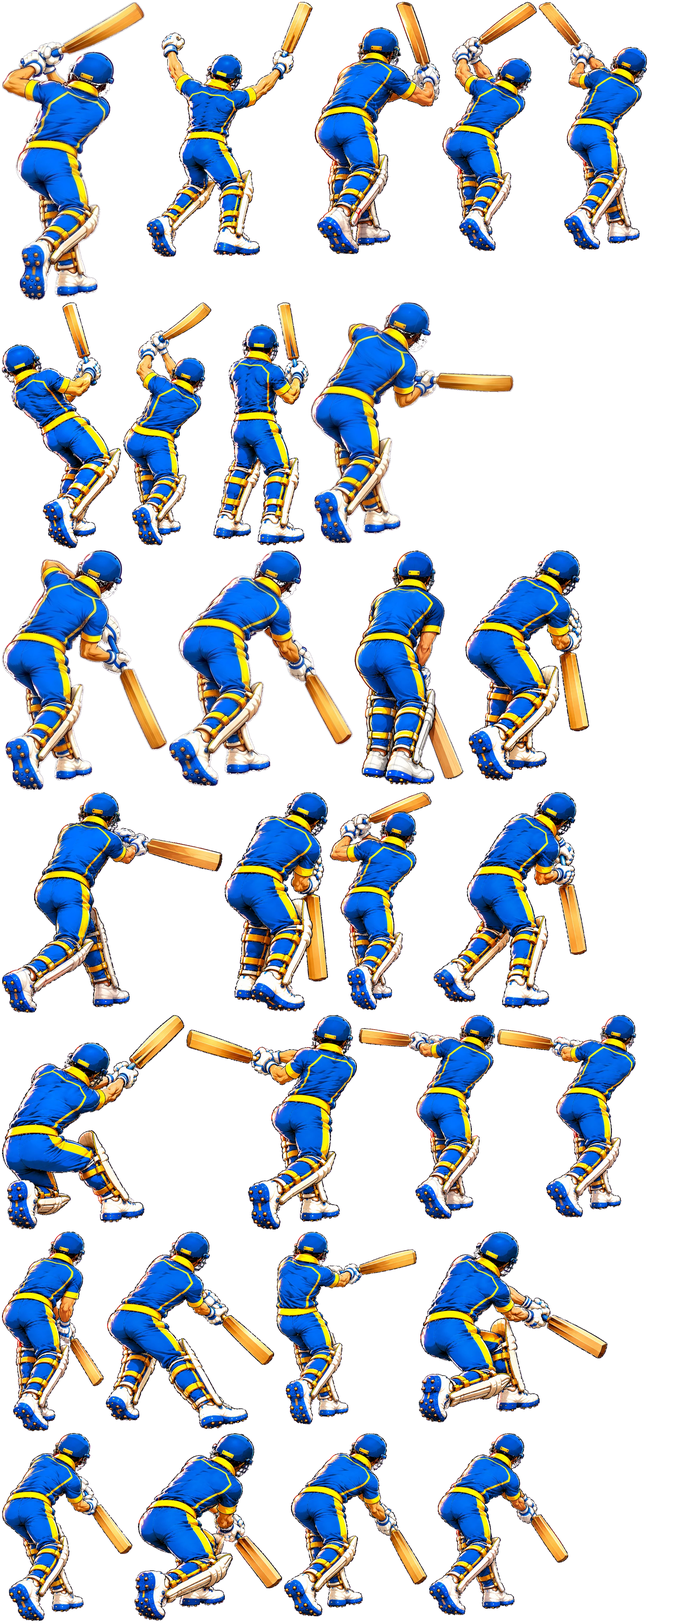
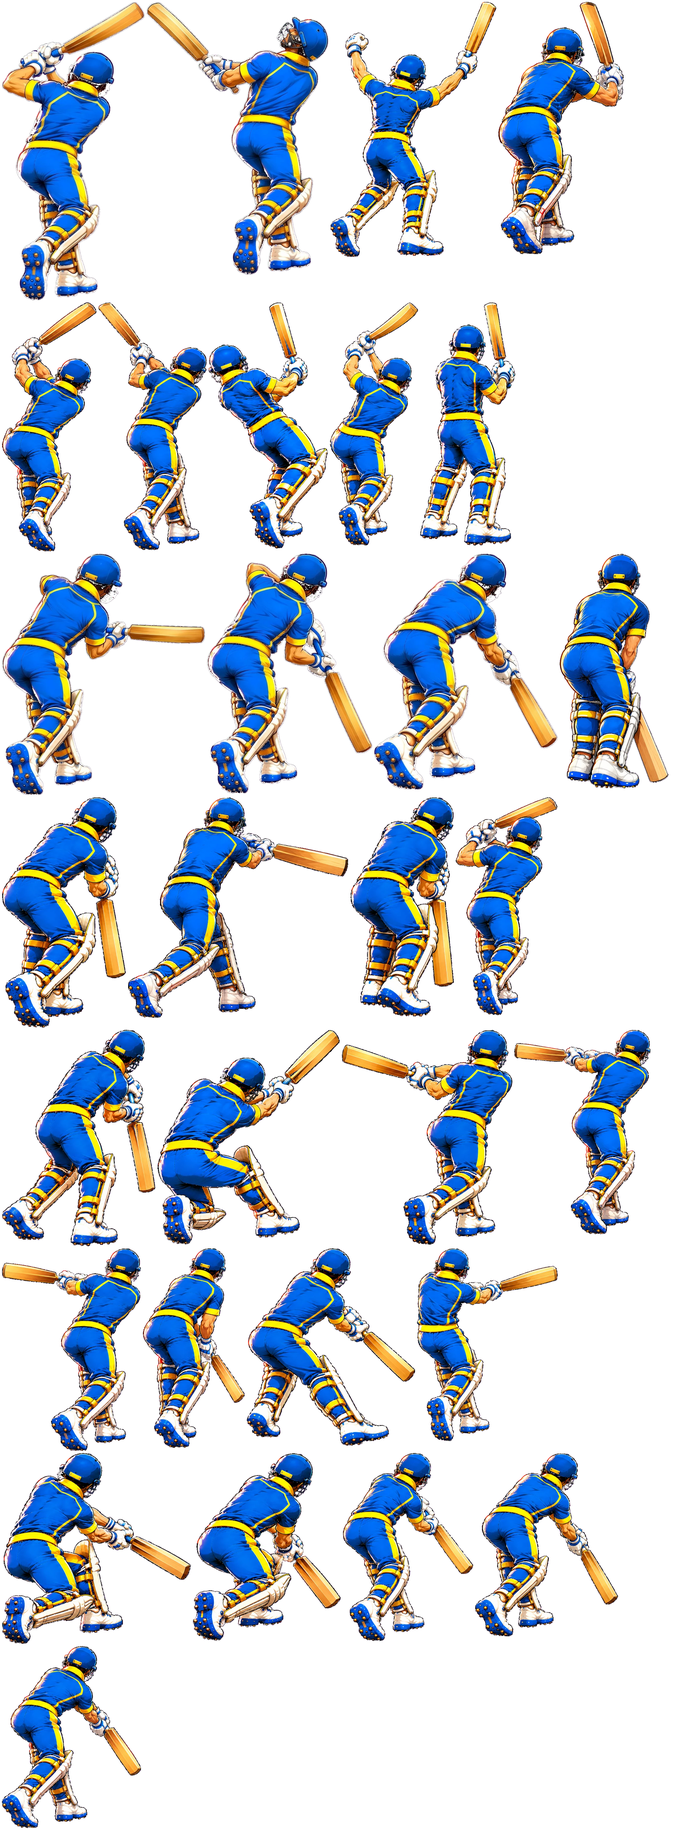
Batter: lofted straight and off-side drives get their own finish (eyes up, bat high)
Claude-Session: https://claude.ai/code/session_01NK7tbrKg5PdA6fuyEUPXLd

diff --git a/js/kitsheets.js b/js/kitsheets.js
@@ -2,4 +2,4 @@
 // [x, y, w, h, feet x, feet y] in sheet order; place: the crest (front: [x, y, size, squash x,
 // squash y, tilt]) or the name-and-number print (back: [x, y, width, squash x, squash y, tilt,
 // name dx, dy, number dx, dy]) per frame; shading references for the repaint.
-export const KIT_SHEETS = {"front":{"frames":[[4,4,227,609,115.7,602],[235,4,204,603,108.5,596],[443,4,232,595,100.6,588],[679,4,181,601,90.4,594],[4,617,184,670,98.7,663],[192,617,204,657,107.8,650],[400,617,234,531,161.4,524],[638,617,200,532,104.9,525],[4,1291,201,557,90.7,550],[209,1291,216,579,105.9,572]],"place":[[153,167,36,1,1,0],[377,154,35,1,1,0],[591,154,35,1,1,0],[795,159,32,0.9,1,0],[142,863,31,0.95,1,5],[363,868,31,0.95,1,5],[549,761,34,1,0.85,0],[754,762,31,0.95,0.85,-5],[148,1439,35,1,1,0],[359,1454,36,1,1,0]],"refPx":580,"suit":[0.0376,0.2954,0.587],"trim":[0.5314,0.8456,0.9029],"skin":0.7306,"tones":[0.2955,0.2955,0.8423],"hair":{"beard_full":0.2269,"beard_goatee":0.1998,"beard_long":0.1906,"bun":0.2773,"buzz":0.2963,"cap":0.2815,"curly":0.2799,"dreads":0.2727,"long":0.2593,"messy":0.2999,"part":0.3383,"ponytail":0.2813,"spiky":0.2762},"size":[1024,1874]},"back":{"frames":[[4,4,223,593,111.2,586],[231,4,203,585,111.9,578],[438,4,226,585,125.1,578],[668,4,184,572,61.0,565],[4,601,172,628,61.9,621],[180,601,213,636,106.9,629],[397,601,240,538,146.8,531],[641,601,234,534,104.0,527],[4,1241,213,572,115.0,565],[221,1241,215,586,107.6,579]],"place":[[116.6,158.1,88.0,1.0,1.0,0.4,0,0,0,0],[343.2,149.0,88.0,1.0,1.0,0.8,0,0,0,0],[558.0,148.9,88.0,1.0,1.0,0.0,0,0,0,0],[738,149.2,84.5,0.88,1.0,2,-4,0,-2,0],[95.9,814.9,81.0,0.85,0.95,15.1,0,0,0,0],[306.5,801.6,81.0,0.85,0.95,10.9,0,0,0,0],[502,714.2,86.2,1.0,0.75,-6,0,0,0,0],[741,714.7,86.2,1.0,0.75,-6,0,0,0,0],[117.6,1385.2,88.0,1.0,1.0,0.4,0,0,0,0],[331.2,1393.8,89.8,1.0,1.0,0.8,0,0,0,0]],"refPx":563,"suit":[0.032,0.3087,0.5514],"trim":[0.5231,0.8489,0.9123],"skin":0.7332,"tones":[0.3087,0.3087,0.8455],"hair":{"bun":0.2553,"buzz":0.2918,"cap":0.2709,"curly":0.2702,"dreads":0.2718,"long":0.2647,"messy":0.2757,"part":0.2824,"ponytail":0.2667,"spiky":0.2812},"size":[1024,1831]},"spin-front":{"frames":[[4,4,182,471,90.8,464],[190,4,175,474,103.6,467],[369,4,172,473,91.2,466],[545,4,173,483,87.0,476],[722,4,165,515,62.2,508],[4,523,164,565,80.0,558],[172,523,152,564,71.3,544],[328,523,165,547,53.2,528],[497,523,255,478,85.7,461],[756,523,173,413,62.2,400],[4,1092,264,385,95.9,378],[272,1092,180,405,108.1,398],[456,1092,144,425,76.3,418],[604,1092,179,431,74.7,424],[787,1092,192,438,94.7,431]],"place":[[133,134,26,1,1,0],[324,133,24,1,1,0],[503,130,24,1,1,0],[663,127,24,1,1,0],[848,180,24,1,1,0],[145,711,22,0.9,1,0],[268,717,21,0.9,1,0],[456,715,21,0.9,1,0],[646,705,20,0.9,0.9,10],[872,632,20,0.9,0.85,0],[118,1191,19,0.9,0.85,0],[368,1192,21,1,0.9,0],[524,1199,22,1,0.95,0],[728,1206,26,1,1,0],[918,1204,26,1,1,0]],"refPx":441,"suit":[0.0299,0.3355,0.4715],"trim":[0.548,0.8593,0.9122],"skin":0.7273,"tones":[0.341,0.154,0.8608],"hair":{"beard_full":0.1972,"beard_goatee":0.2001,"beard_long":0.2064,"bun":0.2433,"buzz":0.241,"cap":0.2898,"curly":0.2653,"dreads":0.2535,"long":0.2468,"messy":0.2721,"part":0.2843,"ponytail":0.2781,"spiky":0.2609},"size":[1024,1534]},"spin-back":{"frames":[[4,4,205,533,100.3,526],[213,4,201,526,110.7,519],[418,4,214,510,122.2,503],[636,4,168,520,54.4,513],[808,4,157,568,64.3,561],[4,576,174,536,56.4,529],[182,576,168,528,67.2,521],[354,576,165,520,59.7,498],[523,576,204,489,64.8,467],[731,576,195,427,99.9,420],[4,1116,270,378,98.4,371],[278,1116,189,392,97.5,385],[471,1116,207,396,98.1,389],[682,1116,185,397,98.2,390],[4,1517,193,401,95.6,394]],"place":[[110,150,72.0,1,1,0,0,0,0,0],[326,138,72.0,1,1,0,0,0,0,0],[539,138,72.0,0.95,1,0,0,0,0,0],[711,141,72.0,0.95,1,11,0,0,0,0],[894,208,72.0,0.95,1,5,0,0,0,0],[100,760,72.0,0.95,1,10,0,0,0,0],[266,753,72.0,0.95,1,10,0,0,0,0],[451,742,72.0,0.95,0.95,18,0,0,0,0],[637,718,72.0,0.95,0.8,20,0,0,0,0],[853,677,72.0,0.95,0.8,12,0,0,0,0],[115,1188,72.0,1,0.7,-6,0,0,0,0],[362,1201,72.0,1,0.75,-10,0,0,0,0],[558,1210,72.0,1,0.85,-6,0,0,0,0],[773,1218,72.0,1,1,0,0,0,0,0],[104,1643,72.0,1,1,0,0,0,0,0]],"refPx":502,"suit":[0.0255,0.3304,0.4621],"trim":[0.5425,0.8472,0.9129],"skin":0.735,"tones":[0.3359,0.1507,0.8497],"hair":{"bun":0.2768,"buzz":0.2522,"cap":0.3009,"curly":0.2524,"dreads":0.3474,"long":0.2919,"messy":0.2526,"part":0.2321,"ponytail":0.2864,"spiky":0.2346},"size":[1024,1922]},"bat-back":{"frames":[[4,4,248,534,127.4,527],[256,4,291,536,114.4,529],[551,4,247,535,126.7,528],[802,4,283,538,117.1,531],[1089,4,237,534,113.5,527],[1330,4,310,635,102.2,628],[4,643,438,523,123.2,516],[446,643,394,523,242.9,516],[844,643,398,524,207.5,517],[1246,643,243,468,91.2,461],[1493,643,229,458,81.5,451],[1726,643,197,456,73.9,449],[4,1171,213,517,108.2,510],[221,1171,264,515,121.3,508],[489,1171,381,501,205.5,494],[874,1171,329,471,80.2,464],[1207,1171,201,510,95.2,503],[1412,1171,161,645,75.2,638],[1577,1171,302,505,119.4,498],[4,1820,340,405,92.8,398],[348,1820,373,419,82.2,412],[725,1820,235,523,91.4,516],[964,1820,195,665,107.2,658],[1163,1820,336,523,170.4,516],[1503,1820,388,542,201.0,535],[4,2489,364,523,108.1,516]],"place":[[110.5,145,87.2,1,1,16.3,0,0,0,0],[366.5,144,89.6,1,1,21.6,0,0,0,0],[660.0,146,86.4,1,1,17.1,0,0,0,0],[905.0,148,87.2,1,1,18.6,0,0,0,0],[1199.0,145,88.0,1,1,19.2,0,0,0,0],[1473.0,237,91.2,1,1,14.7,0,0,0,0],[157.0,762,93.6,1,1,3.2,0,0,0,0],[761.5,781,94.4,1,1,10.1,0,0,0,0],[1171.0,781,90.4,1,1,9.6,0,0,0,0],[1355.0,760,84.0,1,1,1.5,0,0,0,0],[1592.0,760,91.2,1,1,-0.9,0,0,0,0],[1815.0,767,96.0,1,1,3.4,0,0,0,0],[122.5,1293,85.6,1,1,16.8,0,0,0,0],[324.5,1303,96.8,1,1,4.1,0,0,0,0],[597.0,1301,95.2,1,1,8.8,0,0,0,0],[972.5,1302,96.0,1,1,7.3,0,0,0,0],[1324.5,1307,92.0,1,1,6.0,0,0,0,0],[1483.5,1450,92.0,1,1,1.6,0,0,0,0],[1760.5,1408,87.2,1,1,6.1,0,0,0,0],[114.0,1958,103.2,1,1,6.5,0,0,0,0],[504.5,1956,94.4,1,1,-0.9,0,0,0,0],[824.5,1941,94.4,1,1,7.8,0,0,0,0],[1083.5,2081,88.0,1,1,9.2,0,0,0,0],[1261.5,1955,98.4,1,1,11.6,0,0,0,0],[1822.0,1972,83.2,1,1,11.6,0,0,0,0],[88.0,2611,92.0,1,1,0.4,0,0,0,0]],"refPx":522,"suit":[0.0269,0.3529,0.5925],"trim":[0.5451,0.8592,0.9209],"skin":0.6414,"tones":[0.3586,0.2,0.8608],"hair":{},"size":[2048,3016]},"field":{"frames":[[4,4,425,453,214.6,446],[433,4,376,459,180.8,452],[813,4,407,455,200.5,448],[1224,4,294,543,132.5,536],[1522,4,266,555,119.8,548],[4,563,282,545,146.0,538],[290,563,323,540,153.3,533],[617,563,416,478,255.7,471],[1037,563,399,471,239.2,464],[1440,563,416,479,226.6,472],[4,1112,498,472,240.3,465],[506,1112,334,461,194.5,454],[844,1112,389,467,201.6,460],[1237,1112,290,468,134.9,461],[1531,1112,237,468,118.4,461],[4,1588,331,343,227.7,336],[339,1588,473,278,360.6,271],[816,1588,480,172,199.7,165],[1300,1588,337,172,238.3,165],[4,1935,444,498,209.6,491],[452,1935,293,588,174.3,581],[749,1935,424,503,212.8,496],[1177,1935,325,396,172.6,389],[1506,1935,354,418,177.7,411],[4,2527,358,410,163.6,403],[366,2527,433,269,300.7,262],[803,2527,313,384,165.7,377],[1120,2527,314,393,165.6,386],[1438,2527,418,382,217.0,375],[4,2941,455,291,300.0,284],[463,2941,279,574,142.6,567],[746,2941,283,525,142.6,518],[1033,2941,330,573,155.7,566],[1367,2941,288,573,148.0,566],[1659,2941,234,574,118.0,567],[4,3519,232,571,109.8,564],[240,3519,219,572,103.9,565],[463,3519,236,568,117.4,561],[703,3519,228,575,111.3,568],[935,3519,240,570,118.5,563],[1179,3519,238,570,119.8,563],[1421,3519,223,572,107.1,565]],"place":[[10,10,0,1,1,0,0,0,0,0],[439,10,0,1,1,0,0,0,0,0],[1017.0,139,100.8,1,1,1.9,0,0,0,0],[1394.5,134,101.6,1,1,22.4,0,0,0,0],[1652.0,138,104.0,1,1,11.0,0,0,0,0],[174.0,696,97.6,1,1,7.0,0,0,0,0],[458.5,691,98.4,1,1,11.3,0,0,0,0],[623,569,0,1,1,0,0,0,0,0],[1043,569,0,1,1,0,0,0,0,0],[1446,569,0,1,1,0,0,0,0,0],[10,1118,0,1,1,0,0,0,0,0],[512,1118,0,1,1,0,0,0,0,0],[850,1117,0,1,1,0,0,0,0,0],[1405.0,1231,90.4,1,1,15.0,0,0,0,0],[1673.0,1223,85.6,1,1,3.9,0,0,0,0],[10,1594,0,1,1,0,0,0,0,0],[345,1594,0,1,1,0,0,0,0,0],[822,1594,0,1,1,0,0,0,0,0],[1306,1594,0,1,1,0,0,0,0,0],[10,1941,0,1,1,0,0,0,0,0],[458,1941,0,1,1,0,0,0,0,0],[755,1941,0,1,1,0,0,0,0,0],[1183,1941,0,1,1,0,0,0,0,0],[1512,1941,0,1,1,0,0,0,0,0],[10,2533,0,1,1,0,0,0,0,0],[372,2533,0,1,1,0,0,0,0,0],[973.5,2643,76.8,1,1,1.8,0,0,0,0],[1296.5,2644,77.6,1,1,8.0,0,0,0,0],[1690.0,2629,61.6,1,1,16.7,0,0,0,0],[10,2947,0,1,1,0,0,0,0,0],[469,2947,0,1,1,0,0,0,0,0],[752,2947,0,1,1,0,0,0,0,0],[1039,2947,0,1,1,0,0,0,0,0],[1373,2947,0,1,1,0,0,0,0,0],[1665,2947,0,1,1,0,0,0,0,0],[10,3525,0,1,1,0,0,0,0,0],[246,3525,0,1,1,0,0,0,0,0],[469,3525,0,1,1,0,0,0,0,0],[709,3525,0,1,1,0,0,0,0,0],[941,3525,0,1,1,0,0,0,0,0],[1185,3525,0,1,1,0,0,0,0,0],[1427,3525,0,1,1,0,0,0,0,0]],"refPx":441,"suit":[0.0644,0.3368,0.6113],"trim":[0.5563,0.8516,0.9209],"skin":0.7707,"tones":[0.3422,0.2038,0.8539],"hair":{},"size":[2048,4098]},"bat-paint":{"frames":[[957,6,383,768,104.4,759.3],[6,920,363,749,196.1,740.5],[649,920,290,740,166.7,731.6],[1004,2411,309,663,110.5,655.4],[1306,4362,423,554,93.0,547.5],[1346,6,288,759,123.8,749.4],[6,4362,397,572,93.0,565.3],[375,920,268,740,87.6,731.6],[1513,3089,423,617,231.8,608.8],[1640,6,329,754,180.4,745.5],[6,3749,310,607,103.3,599.9],[1092,3089,415,622,247.8,614.8],[567,3089,519,654,269.9,645.5],[1416,1675,377,702,99.8,694.0],[683,2411,315,668,181.6,659.3],[1319,2411,467,659,242.0,651.4],[322,3749,512,601,324.2,594.0],[865,4362,435,558,77.9,551.4],[6,2411,671,672,148.8,664.3],[840,3749,428,587,91.8,580.1],[409,4362,450,572,56.9,565.3],[1274,3749,575,581,50.2,573.2],[6,3089,555,654,126.1,644.5],[446,6,505,777,201.6,766.2],[515,1675,558,718,100.1,708.8],[6,1675,503,730,92.1,720.7],[6,6,434,908,164.9,895.9],[945,920,618,735,93.6,724.6],[1079,1675,331,714,169.3,705.9]],"place":[[1132.0,261.0,69.1,1,1,1.8,0,0,0,0],[124.5,1211.0,52.6,1,1,-2.0,0,0,0,0],[788.0,1182.0,51.8,1,1,1.0,0,0,0,0],[1164.5,2643.5,54.0,1,1,1.2,0,0,0,0],[1489.6,4497.0,56.7,1,1,3.7,0,0,0,0],[1500.5,337.5,51.1,1,1,1.6,0,0,0,0],[158.5,4506.0,58.3,1,1,2.3,0,0,0,0],[519.5,1249.0,49.7,1,1,1.1,0,0,0,0],[1834.5,3255.0,54.0,1,1,1.0,0,0,0,0],[1849.5,280.5,46.8,1,1,-1.0,0,0,0,0],[161.5,3893.0,56.9,1,1,2.2,0,0,0,0],[1404.0,3252.5,50.4,1,1,1.3,0,0,0,0],[974.5,3272.5,62.6,1,1,-0.4,0,0,0,0],[1619.0,1854.5,80.6,1,1,4.8,0,0,0,0],[863.0,2585.0,72.0,1,1,2.7,0,0,0,0],[1598.9,2591.0,75.1,1,1,2.6,0,0,0,0],[514.5,3920.0,68.4,1,1,4.0,0,0,0,0],[1054.0,4478.5,51.8,1,1,2.3,0,0,0,0],[267.0,2588.0,66.2,1,1,1.7,0,0,0,0],[925.0,3880.5,49.0,1,1,2.1,0,0,0,0],[621.5,4528.0,75.6,1,1,3.6,0,0,0,0],[1439.0,3929.0,66.2,1,1,1.7,0,0,0,0],[174.5,3366.0,74.2,1,1,3.0,0,0,0,0],[650.0,316.5,56.2,1,1,2.4,0,0,0,0],[710.0,1921.5,90.7,1,1,8.7,0,0,0,0],[211.5,1869.5,74.2,1,1,3.5,0,0,0,0],[212.5,362.5,62.6,1,1,1.4,0,0,0,0],[1153.0,1118.5,77.8,1,1,2.9,0,0,0,0],[1240.0,1863.5,67.7,1,1,1.9,0,0,0,0]],"names":{"backlift":0,"leave1":1,"leave2":2,"drive1":3,"drive2":4,"drive3":5,"straight1":6,"straight2":7,"ondrive1":8,"ondrive2":9,"cover1":10,"pull1":11,"pull2":12,"def1":13,"def2":14,"def3":15,"cut1":16,"cut2":17,"cut3":18,"cut4":19,"rsweep1":20,"rsweep2":21,"rsweep3":22,"celebrate":23,"cover0":24,"cover2":25,"cover3":26,"cutflat":27,"ready":28},"refPx":705.4,"suit":[0.0269,0.3529,0.5925],"trim":[0.5451,0.8592,0.9209],"skin":0.6547,"tones":[0.3154,0.1577,0.8494],"hair":{},"size":[2048,4940],"hsv":[[216.4486,0.9944,0.8589],[216.4486,0.9944,0.8589],[55.8808,0.9881,0.9882]]}};
+export const KIT_SHEETS = {"front":{"frames":[[4,4,227,609,115.7,602],[235,4,204,603,108.5,596],[443,4,232,595,100.6,588],[679,4,181,601,90.4,594],[4,617,184,670,98.7,663],[192,617,204,657,107.8,650],[400,617,234,531,161.4,524],[638,617,200,532,104.9,525],[4,1291,201,557,90.7,550],[209,1291,216,579,105.9,572]],"place":[[153,167,36,1,1,0],[377,154,35,1,1,0],[591,154,35,1,1,0],[795,159,32,0.9,1,0],[142,863,31,0.95,1,5],[363,868,31,0.95,1,5],[549,761,34,1,0.85,0],[754,762,31,0.95,0.85,-5],[148,1439,35,1,1,0],[359,1454,36,1,1,0]],"refPx":580,"suit":[0.0376,0.2954,0.587],"trim":[0.5314,0.8456,0.9029],"skin":0.7306,"tones":[0.2955,0.2955,0.8423],"hair":{"beard_full":0.2269,"beard_goatee":0.1998,"beard_long":0.1906,"bun":0.2773,"buzz":0.2963,"cap":0.2815,"curly":0.2799,"dreads":0.2727,"long":0.2593,"messy":0.2999,"part":0.3383,"ponytail":0.2813,"spiky":0.2762},"size":[1024,1874]},"back":{"frames":[[4,4,223,593,111.2,586],[231,4,203,585,111.9,578],[438,4,226,585,125.1,578],[668,4,184,572,61.0,565],[4,601,172,628,61.9,621],[180,601,213,636,106.9,629],[397,601,240,538,146.8,531],[641,601,234,534,104.0,527],[4,1241,213,572,115.0,565],[221,1241,215,586,107.6,579]],"place":[[116.6,158.1,88.0,1.0,1.0,0.4,0,0,0,0],[343.2,149.0,88.0,1.0,1.0,0.8,0,0,0,0],[558.0,148.9,88.0,1.0,1.0,0.0,0,0,0,0],[738,149.2,84.5,0.88,1.0,2,-4,0,-2,0],[95.9,814.9,81.0,0.85,0.95,15.1,0,0,0,0],[306.5,801.6,81.0,0.85,0.95,10.9,0,0,0,0],[502,714.2,86.2,1.0,0.75,-6,0,0,0,0],[741,714.7,86.2,1.0,0.75,-6,0,0,0,0],[117.6,1385.2,88.0,1.0,1.0,0.4,0,0,0,0],[331.2,1393.8,89.8,1.0,1.0,0.8,0,0,0,0]],"refPx":563,"suit":[0.032,0.3087,0.5514],"trim":[0.5231,0.8489,0.9123],"skin":0.7332,"tones":[0.3087,0.3087,0.8455],"hair":{"bun":0.2553,"buzz":0.2918,"cap":0.2709,"curly":0.2702,"dreads":0.2718,"long":0.2647,"messy":0.2757,"part":0.2824,"ponytail":0.2667,"spiky":0.2812},"size":[1024,1831]},"spin-front":{"frames":[[4,4,182,471,90.8,464],[190,4,175,474,103.6,467],[369,4,172,473,91.2,466],[545,4,173,483,87.0,476],[722,4,165,515,62.2,508],[4,523,164,565,80.0,558],[172,523,152,564,71.3,544],[328,523,165,547,53.2,528],[497,523,255,478,85.7,461],[756,523,173,413,62.2,400],[4,1092,264,385,95.9,378],[272,1092,180,405,108.1,398],[456,1092,144,425,76.3,418],[604,1092,179,431,74.7,424],[787,1092,192,438,94.7,431]],"place":[[133,134,26,1,1,0],[324,133,24,1,1,0],[503,130,24,1,1,0],[663,127,24,1,1,0],[848,180,24,1,1,0],[145,711,22,0.9,1,0],[268,717,21,0.9,1,0],[456,715,21,0.9,1,0],[646,705,20,0.9,0.9,10],[872,632,20,0.9,0.85,0],[118,1191,19,0.9,0.85,0],[368,1192,21,1,0.9,0],[524,1199,22,1,0.95,0],[728,1206,26,1,1,0],[918,1204,26,1,1,0]],"refPx":441,"suit":[0.0299,0.3355,0.4715],"trim":[0.548,0.8593,0.9122],"skin":0.7273,"tones":[0.341,0.154,0.8608],"hair":{"beard_full":0.1972,"beard_goatee":0.2001,"beard_long":0.2064,"bun":0.2433,"buzz":0.241,"cap":0.2898,"curly":0.2653,"dreads":0.2535,"long":0.2468,"messy":0.2721,"part":0.2843,"ponytail":0.2781,"spiky":0.2609},"size":[1024,1534]},"spin-back":{"frames":[[4,4,205,533,100.3,526],[213,4,201,526,110.7,519],[418,4,214,510,122.2,503],[636,4,168,520,54.4,513],[808,4,157,568,64.3,561],[4,576,174,536,56.4,529],[182,576,168,528,67.2,521],[354,576,165,520,59.7,498],[523,576,204,489,64.8,467],[731,576,195,427,99.9,420],[4,1116,270,378,98.4,371],[278,1116,189,392,97.5,385],[471,1116,207,396,98.1,389],[682,1116,185,397,98.2,390],[4,1517,193,401,95.6,394]],"place":[[110,150,72.0,1,1,0,0,0,0,0],[326,138,72.0,1,1,0,0,0,0,0],[539,138,72.0,0.95,1,0,0,0,0,0],[711,141,72.0,0.95,1,11,0,0,0,0],[894,208,72.0,0.95,1,5,0,0,0,0],[100,760,72.0,0.95,1,10,0,0,0,0],[266,753,72.0,0.95,1,10,0,0,0,0],[451,742,72.0,0.95,0.95,18,0,0,0,0],[637,718,72.0,0.95,0.8,20,0,0,0,0],[853,677,72.0,0.95,0.8,12,0,0,0,0],[115,1188,72.0,1,0.7,-6,0,0,0,0],[362,1201,72.0,1,0.75,-10,0,0,0,0],[558,1210,72.0,1,0.85,-6,0,0,0,0],[773,1218,72.0,1,1,0,0,0,0,0],[104,1643,72.0,1,1,0,0,0,0,0]],"refPx":502,"suit":[0.0255,0.3304,0.4621],"trim":[0.5425,0.8472,0.9129],"skin":0.735,"tones":[0.3359,0.1507,0.8497],"hair":{"bun":0.2768,"buzz":0.2522,"cap":0.3009,"curly":0.2524,"dreads":0.3474,"long":0.2919,"messy":0.2526,"part":0.2321,"ponytail":0.2864,"spiky":0.2346},"size":[1024,1922]},"bat-back":{"frames":[[4,4,248,534,127.4,527],[256,4,291,536,114.4,529],[551,4,247,535,126.7,528],[802,4,283,538,117.1,531],[1089,4,237,534,113.5,527],[1330,4,310,635,102.2,628],[4,643,438,523,123.2,516],[446,643,394,523,242.9,516],[844,643,398,524,207.5,517],[1246,643,243,468,91.2,461],[1493,643,229,458,81.5,451],[1726,643,197,456,73.9,449],[4,1171,213,517,108.2,510],[221,1171,264,515,121.3,508],[489,1171,381,501,205.5,494],[874,1171,329,471,80.2,464],[1207,1171,201,510,95.2,503],[1412,1171,161,645,75.2,638],[1577,1171,302,505,119.4,498],[4,1820,340,405,92.8,398],[348,1820,373,419,82.2,412],[725,1820,235,523,91.4,516],[964,1820,195,665,107.2,658],[1163,1820,336,523,170.4,516],[1503,1820,388,542,201.0,535],[4,2489,364,523,108.1,516]],"place":[[110.5,145,87.2,1,1,16.3,0,0,0,0],[366.5,144,89.6,1,1,21.6,0,0,0,0],[660.0,146,86.4,1,1,17.1,0,0,0,0],[905.0,148,87.2,1,1,18.6,0,0,0,0],[1199.0,145,88.0,1,1,19.2,0,0,0,0],[1473.0,237,91.2,1,1,14.7,0,0,0,0],[157.0,762,93.6,1,1,3.2,0,0,0,0],[761.5,781,94.4,1,1,10.1,0,0,0,0],[1171.0,781,90.4,1,1,9.6,0,0,0,0],[1355.0,760,84.0,1,1,1.5,0,0,0,0],[1592.0,760,91.2,1,1,-0.9,0,0,0,0],[1815.0,767,96.0,1,1,3.4,0,0,0,0],[122.5,1293,85.6,1,1,16.8,0,0,0,0],[324.5,1303,96.8,1,1,4.1,0,0,0,0],[597.0,1301,95.2,1,1,8.8,0,0,0,0],[972.5,1302,96.0,1,1,7.3,0,0,0,0],[1324.5,1307,92.0,1,1,6.0,0,0,0,0],[1483.5,1450,92.0,1,1,1.6,0,0,0,0],[1760.5,1408,87.2,1,1,6.1,0,0,0,0],[114.0,1958,103.2,1,1,6.5,0,0,0,0],[504.5,1956,94.4,1,1,-0.9,0,0,0,0],[824.5,1941,94.4,1,1,7.8,0,0,0,0],[1083.5,2081,88.0,1,1,9.2,0,0,0,0],[1261.5,1955,98.4,1,1,11.6,0,0,0,0],[1822.0,1972,83.2,1,1,11.6,0,0,0,0],[88.0,2611,92.0,1,1,0.4,0,0,0,0]],"refPx":522,"suit":[0.0269,0.3529,0.5925],"trim":[0.5451,0.8592,0.9209],"skin":0.6414,"tones":[0.3586,0.2,0.8608],"hair":{},"size":[2048,3016]},"field":{"frames":[[4,4,425,453,214.6,446],[433,4,376,459,180.8,452],[813,4,407,455,200.5,448],[1224,4,294,543,132.5,536],[1522,4,266,555,119.8,548],[4,563,282,545,146.0,538],[290,563,323,540,153.3,533],[617,563,416,478,255.7,471],[1037,563,399,471,239.2,464],[1440,563,416,479,226.6,472],[4,1112,498,472,240.3,465],[506,1112,334,461,194.5,454],[844,1112,389,467,201.6,460],[1237,1112,290,468,134.9,461],[1531,1112,237,468,118.4,461],[4,1588,331,343,227.7,336],[339,1588,473,278,360.6,271],[816,1588,480,172,199.7,165],[1300,1588,337,172,238.3,165],[4,1935,444,498,209.6,491],[452,1935,293,588,174.3,581],[749,1935,424,503,212.8,496],[1177,1935,325,396,172.6,389],[1506,1935,354,418,177.7,411],[4,2527,358,410,163.6,403],[366,2527,433,269,300.7,262],[803,2527,313,384,165.7,377],[1120,2527,314,393,165.6,386],[1438,2527,418,382,217.0,375],[4,2941,455,291,300.0,284],[463,2941,279,574,142.6,567],[746,2941,283,525,142.6,518],[1033,2941,330,573,155.7,566],[1367,2941,288,573,148.0,566],[1659,2941,234,574,118.0,567],[4,3519,232,571,109.8,564],[240,3519,219,572,103.9,565],[463,3519,236,568,117.4,561],[703,3519,228,575,111.3,568],[935,3519,240,570,118.5,563],[1179,3519,238,570,119.8,563],[1421,3519,223,572,107.1,565]],"place":[[10,10,0,1,1,0,0,0,0,0],[439,10,0,1,1,0,0,0,0,0],[1017.0,139,100.8,1,1,1.9,0,0,0,0],[1394.5,134,101.6,1,1,22.4,0,0,0,0],[1652.0,138,104.0,1,1,11.0,0,0,0,0],[174.0,696,97.6,1,1,7.0,0,0,0,0],[458.5,691,98.4,1,1,11.3,0,0,0,0],[623,569,0,1,1,0,0,0,0,0],[1043,569,0,1,1,0,0,0,0,0],[1446,569,0,1,1,0,0,0,0,0],[10,1118,0,1,1,0,0,0,0,0],[512,1118,0,1,1,0,0,0,0,0],[850,1117,0,1,1,0,0,0,0,0],[1405.0,1231,90.4,1,1,15.0,0,0,0,0],[1673.0,1223,85.6,1,1,3.9,0,0,0,0],[10,1594,0,1,1,0,0,0,0,0],[345,1594,0,1,1,0,0,0,0,0],[822,1594,0,1,1,0,0,0,0,0],[1306,1594,0,1,1,0,0,0,0,0],[10,1941,0,1,1,0,0,0,0,0],[458,1941,0,1,1,0,0,0,0,0],[755,1941,0,1,1,0,0,0,0,0],[1183,1941,0,1,1,0,0,0,0,0],[1512,1941,0,1,1,0,0,0,0,0],[10,2533,0,1,1,0,0,0,0,0],[372,2533,0,1,1,0,0,0,0,0],[973.5,2643,76.8,1,1,1.8,0,0,0,0],[1296.5,2644,77.6,1,1,8.0,0,0,0,0],[1690.0,2629,61.6,1,1,16.7,0,0,0,0],[10,2947,0,1,1,0,0,0,0,0],[469,2947,0,1,1,0,0,0,0,0],[752,2947,0,1,1,0,0,0,0,0],[1039,2947,0,1,1,0,0,0,0,0],[1373,2947,0,1,1,0,0,0,0,0],[1665,2947,0,1,1,0,0,0,0,0],[10,3525,0,1,1,0,0,0,0,0],[246,3525,0,1,1,0,0,0,0,0],[469,3525,0,1,1,0,0,0,0,0],[709,3525,0,1,1,0,0,0,0,0],[941,3525,0,1,1,0,0,0,0,0],[1185,3525,0,1,1,0,0,0,0,0],[1427,3525,0,1,1,0,0,0,0,0]],"refPx":441,"suit":[0.0644,0.3368,0.6113],"trim":[0.5563,0.8516,0.9209],"skin":0.7707,"tones":[0.3422,0.2038,0.8539],"hair":{},"size":[2048,4098]},"bat-paint":{"frames":[[1516,6,383,768,104.4,759.3],[635,920,363,749,196.1,740.5],[1278,920,290,740,166.7,731.6],[1387,2426,309,663,110.5,655.4],[6,5009,423,554,93.0,547.5],[6,920,288,759,123.8,749.4],[1043,4422,397,572,93.0,565.3],[1004,920,268,740,87.6,731.6],[6,3799,423,617,231.8,608.8],[300,920,329,754,180.4,745.5],[435,3799,310,607,103.3,599.9],[1565,3134,415,622,247.8,614.8],[1040,3134,519,654,269.9,645.5],[6,2426,377,702,99.8,694.0],[1066,2426,315,668,181.6,659.3],[6,3134,467,659,242.0,651.4],[751,3799,512,601,324.2,594.0],[1446,4422,435,558,77.9,551.4],[389,2426,671,672,148.8,664.3],[1269,3799,428,587,91.8,580.1],[587,4422,450,572,56.9,565.3],[6,4422,575,581,50.2,573.2],[479,3134,555,654,126.1,644.5],[1005,6,505,777,201.6,766.2],[1139,1685,558,718,100.1,708.8],[630,1685,503,730,92.1,720.7],[6,6,434,908,164.9,895.9],[6,1685,618,735,93.6,724.6],[446,6,553,830,370.9,820.7],[1703,1685,331,714,169.3,705.9]],"place":[[1691.0,261.0,69.1,1,1,1.8,0,0,0,0],[753.5,1211.0,52.6,1,1,-2.0,0,0,0,0],[1417.0,1182.0,51.8,1,1,1.0,0,0,0,0],[1547.5,2658.5,54.0,1,1,1.2,0,0,0,0],[189.5,5144.0,56.9,1,1,3.8,0,0,0,0],[160.5,1251.5,51.1,1,1,1.6,0,0,0,0],[1195.5,4566.0,58.3,1,1,2.3,0,0,0,0],[1148.5,1249.0,49.7,1,1,1.1,0,0,0,0],[327.5,3965.0,54.0,1,1,1.0,0,0,0,0],[509.5,1194.5,46.8,1,1,-1.0,0,0,0,0],[590.5,3943.0,56.9,1,1,2.2,0,0,0,0],[1877.0,3297.5,50.4,1,1,1.3,0,0,0,0],[1447.5,3317.5,62.6,1,1,-0.4,0,0,0,0],[209.0,2605.5,80.6,1,1,4.8,0,0,0,0],[1246.0,2600.0,72.0,1,1,2.7,0,0,0,0],[285.5,3314.0,75.6,1,1,2.6,0,0,0,0],[943.5,3970.0,68.4,1,1,4.1,0,0,0,0],[1635.0,4538.5,51.8,1,1,2.3,0,0,0,0],[650.0,2603.0,66.2,1,1,1.7,0,0,0,0],[1354.0,3930.5,49.0,1,1,2.1,0,0,0,0],[799.5,4588.0,75.6,1,1,3.6,0,0,0,0],[171.0,4602.0,66.2,1,1,1.7,0,0,0,0],[647.5,3411.0,74.2,1,1,3.0,0,0,0,0],[1209.0,316.5,56.2,1,1,2.5,0,0,0,0],[1334.0,1931.5,90.7,1,1,8.7,0,0,0,0],[835.5,1879.5,74.2,1,1,3.5,0,0,0,0],[212.5,362.5,62.6,1,1,1.4,0,0,0,0],[214.0,1883.5,77.8,1,1,2.9,0,0,0,0],[843.5,272.5,65.5,1,1,-0.3,0,0,0,0],[1864.0,1873.5,67.7,1,1,1.9,0,0,0,0]],"names":{"backlift":0,"leave1":1,"leave2":2,"drive1":3,"drive2":4,"drive3":5,"straight1":6,"straight2":7,"ondrive1":8,"ondrive2":9,"cover1":10,"pull1":11,"pull2":12,"def1":13,"def2":14,"def3":15,"cut1":16,"cut2":17,"cut3":18,"cut4":19,"rsweep1":20,"rsweep2":21,"rsweep3":22,"celebrate":23,"cover0":24,"cover2":25,"cover3":26,"cutflat":27,"loft1":28,"ready":29},"refPx":705.4,"suit":[0.0269,0.3529,0.5925],"trim":[0.5451,0.8592,0.9209],"skin":0.6519,"tones":[0.3157,0.15785,0.8487],"hair":{},"size":[2048,5569],"hsv":[[216.3835,0.9944,0.8569],[216.3835,0.9944,0.8569],[55.8098,0.988,0.9882]]}};

diff --git a/js/batsprite.js b/js/batsprite.js
@@ -32,7 +32,7 @@ const FRAMES = {
 };
 
 // the frames the kit sheet has and the old per-team sheets (and the batter seen from the front) don't
-export const OLD_FRAME = { cut4: 'cut3', rsweep1: 'cut1', rsweep2: 'cut2', rsweep3: 'cut3', cover1: 'drive2', straight1: 'drive2', straight2: 'drive3', ondrive1: 'drive2', ondrive2: 'drive3', cover0: 'drive2', cover2: 'drive2', cover3: 'drive3', cutflat: 'cut2' };
+export const OLD_FRAME = { cut4: 'cut3', rsweep1: 'cut1', rsweep2: 'cut2', rsweep3: 'cut3', cover1: 'drive2', straight1: 'drive2', straight2: 'drive3', ondrive1: 'drive2', ondrive2: 'drive3', cover0: 'drive2', cover2: 'drive2', cover3: 'drive3', cutflat: 'cut2', loft1: 'drive3' };
 
 // frame, ms on screen. The swing starts when the finger lifts, which is the moment of contact,
 // so the downswing is brief and the contact frame lands almost at once.
@@ -40,6 +40,7 @@ const SEQ = {
   drive: [['drive1', 25], ['drive2', 35], ['drive3', Infinity]],
   ondrive: [['ondrive1', 160], ['ondrive2', Infinity]], // through the ball, round to the leg side
   straight: [['straight1', 160], ['straight2', Infinity]], // bat through the line, high finish
+  loft: [['cover0', 30], ['cover2', 40], ['loft1', Infinity]], // a lifted drive: through the ball, eyes up, a high finish
   cover: [['cover0', 30], ['cover2', 40], ['cover3', Infinity]], // down, through the ball, high finish: off side
   pull: [['pull1', 150], ['pull2', Infinity]], // swung across to leg, through
   cut: [['cut1', 25], ['cutflat', 30], ['cut3', 100], ['cut4', Infinity]],
@@ -60,6 +61,7 @@ export function shotAnim(shot) {
   if (shot.kind === 'block') return 'block';
   if (shot.kind === 'leave') return 'leave';
   const a = shot.angle;
+  if (shot.loft && a >= -15 * DEG && a <= 55 * DEG) return 'loft';
   if (a > 110 * DEG) return 'rsweep';
   if (a > 55 * DEG) return 'cut';
   if (a > 15 * DEG) return 'cover';

diff --git a/tests/logic.test.js b/tests/logic.test.js
@@ -253,4 +253,7 @@ test('each swipe direction plays its own shot', async () => {
   assert.equal(d(35), 'cover'); assert.equal(d(80), 'cut'); assert.equal(d(140), 'rsweep');
   assert.equal(d(-35), 'ondrive'); assert.equal(d(-80), 'pull'); assert.equal(d(-150), 'pull');
   assert.equal(shotAnim({ kind: 'block', angle: 0 }), 'block');
+  // a lifted drive straight or to the off side has its own finish; a lifted cut or pull is still a cut or pull
+  const l = deg => shotAnim({ kind: 'drive', angle: deg * Math.PI / 180, loft: true });
+  assert.equal(l(0), 'loft'); assert.equal(l(35), 'loft'); assert.equal(l(80), 'cut'); assert.equal(l(-80), 'pull');
 });

diff --git a/tools/build_bat_paint.py b/tools/build_bat_paint.py
@@ -22,7 +22,7 @@ G = 0.85                                  # the whole set's size (1.0 = the stan
 READY_SCALE = 840 / 1575 * G              # the stance (its source figure is 1575 px tall)
 SCALE = {'464df84f': 1.10 * G, 'f628f0f7': 1.10 * G}   # sheets drawn on the wide canvas; every other sheet is on the 1536 x 1024 canvas
 DEFAULT_SCALE = 0.94 * G
-SCALE.update({'c0v1drv1': 0.81 * G, 'c0v2cut1': 0.81 * G})   # (the 2576 x 1438 sheets)
+SCALE.update({'c0v1drv1': 0.81 * G, 'c0v2cut1': 0.81 * G, 'c0v3loft': 0.81 * G})   # (the 2576 x 1438 sheets)
 DIL = {'f628f0f7': 2}                     # (its figures kneel close together: a small gap between them)
 FRAMES = {
     'backlift': ('464df84f', 1), 'leave1': ('2965e2d6', 0), 'leave2': ('2965e2d6', 1),
@@ -31,7 +31,7 @@ FRAMES = {
     'pull1': ('2236f518', 0), 'pull2': ('b506964d', 0), 'def1': ('df0bc565', 0), 'def2': ('df0bc565', 1), 'def3': ('c3007d6e', 1),
     'cut1': ('b506964d', 1), 'cut2': ('54ab15c9', 0), 'cut3': ('464df84f', 2), 'cut4': ('f1c2ccd0', 1),
     'rsweep1': ('f628f0f7', 0), 'rsweep2': ('f628f0f7', 1), 'rsweep3': ('f628f0f7', 2), 'celebrate': ('efc0e85c', 0),
-    'cover0': ('c0v1drv1', 0), 'cover2': ('c0v1drv1', 1), 'cover3': ('c0v1drv1', 2), 'cutflat': ('c0v2cut1', 1),
+    'cover0': ('c0v1drv1', 0), 'cover2': ('c0v1drv1', 1), 'cover3': ('c0v1drv1', 2), 'cutflat': ('c0v2cut1', 1), 'loft1': ('c0v3loft', 2),
 }
 READY = 'tools/kit/bat-ready-source.png'
 # where the shirt back is, for the poses the colours alone get wrong: (left, right, top, bottom) as fractions of the frame
